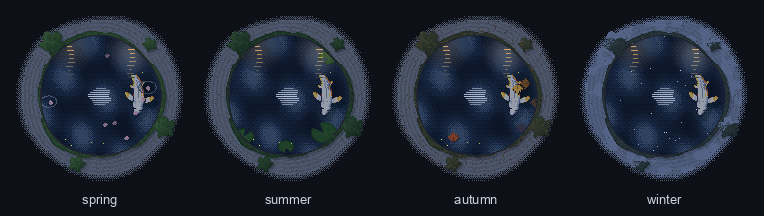
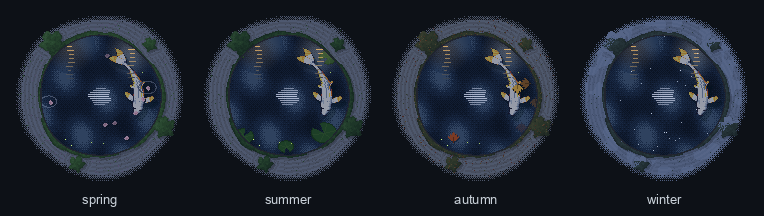
Night: lamp glow lights the water under the koi instead of covering it
The glow was being lifted above the koi with the rest of the surface,
so on a lamplit night the fish disappeared inside the glow. It now
counts as part of the water; the reflection streaks still sit on top.

diff --git a/docs/explorer.html b/docs/explorer.html
@@ -232,7 +232,10 @@ SC.night = (t, T) => {
   const ph = TAU * t / N;
   if (season === "summer") for (const [x, y, r, ang] of [[14,18,11,0.6],[104,26,9,2.4],[100,100,13,4.0],[20,104,10,5.2],[62,114,8,1.4]]) { const bob = Math.sin(TAU*t/N + x) * 0.8; lily(x, y + bob, r, ang, hx("#1d3f27"), hx("#142f1c")); }
   if (wet) { ctx.globalAlpha = 0.3; drawMoon(t, ph); ctx.globalAlpha = 1; } else drawMoon(t, ph); // on a rainy night the moon shows faintly through cloud
-  lights.forEach((s, n) => { if (!s.water) return; const sx0 = s.x - G.off, sy0 = s.y - G.off, flick = 0.85 + 0.15*Math.sin(ph*6 + n*1.7); glow(sx0, sy0 + 10, 26, s.col, 0.22*flick); for (let k = 0; k < 9; k++) { const y = sy0 + 8 + k*4, w = 1 + Math.round(2*Math.abs(Math.sin(ph*2 + k + n))), x = sx0 + Math.round(1.5*Math.sin(ph*3 + k*0.9 + n)); line(x - w, y, x + w, y, s.col, Math.max(0, 0.75 - k*0.08)); } });
+  // the lamps' glow lights the water itself, so it counts as water: the koi swims through it, not under it
+  lights.forEach((s, n) => { if (s.water) glow(s.x - G.off, s.y - G.off + 10, 26, s.col, 0.22*(0.85 + 0.15*Math.sin(ph*6 + n*1.7))); });
+  basectx.drawImage(sctx.canvas, 0, 0);
+  lights.forEach((s, n) => { if (!s.water) return; const sx0 = s.x - G.off, sy0 = s.y - G.off; for (let k = 0; k < 9; k++) { const y = sy0 + 8 + k*4, w = 1 + Math.round(2*Math.abs(Math.sin(ph*2 + k + n))), x = sx0 + Math.round(1.5*Math.sin(ph*3 + k*0.9 + n)); line(x - w, y, x + w, y, s.col, Math.max(0, 0.75 - k*0.08)); } });
   if (wet) { const r = rng(13); for (let i = 0; i < 22; i++) { const sx = 4 + r()*120, sy = 4 + r()*120, off = Math.floor(r()*30); const k = ((t + off) % 30) / 30; if (k < 0.93) ring(sx, sy, 0.5 + k*10, [150,175,215], 0.75*(1-k)); if ((t+off)%30 >= 28) P(sx, sy - (29 - (t+off)%30)*3, [190,205,235], 0.8); } }
   if (season === "winter") { const r = rng(11); for (let i = 0; i < 30; i++) { const x0 = r()*L, y0 = r()*L; const x = (x0 + 3*Math.sin(TAU*t/N*2 + i)) % L, y = (y0 + L*t/N) % (L + 8) - 4; P(x, y, [220,230,250], i % 3 ? 0.65 : 0.85); } }
   if (season === "autumn") fallers(T, 6, 5, LEAVES, ["#7a3a24","#8a5a2a","#9a7a3a"].map(c => { const a = hx(c); return {a, b: a.map(v => v * 0.65 | 0)}; }), [150,170,200], 20, state.drops === "random");

diff --git a/scenes/pond.html b/scenes/pond.html
@@ -232,7 +232,10 @@ SC.night = (t, T) => {
   const ph = TAU * t / N;
   if (season === "summer") for (const [x, y, r, ang] of [[14,18,11,0.6],[104,26,9,2.4],[100,100,13,4.0],[20,104,10,5.2],[62,114,8,1.4]]) { const bob = Math.sin(TAU*t/N + x) * 0.8; lily(x, y + bob, r, ang, hx("#1d3f27"), hx("#142f1c")); }
   if (wet) { ctx.globalAlpha = 0.3; drawMoon(t, ph); ctx.globalAlpha = 1; } else drawMoon(t, ph); // on a rainy night the moon shows faintly through cloud
-  lights.forEach((s, n) => { if (!s.water) return; const sx0 = s.x - G.off, sy0 = s.y - G.off, flick = 0.85 + 0.15*Math.sin(ph*6 + n*1.7); glow(sx0, sy0 + 10, 26, s.col, 0.22*flick); for (let k = 0; k < 9; k++) { const y = sy0 + 8 + k*4, w = 1 + Math.round(2*Math.abs(Math.sin(ph*2 + k + n))), x = sx0 + Math.round(1.5*Math.sin(ph*3 + k*0.9 + n)); line(x - w, y, x + w, y, s.col, Math.max(0, 0.75 - k*0.08)); } });
+  // the lamps' glow lights the water itself, so it counts as water: the koi swims through it, not under it
+  lights.forEach((s, n) => { if (s.water) glow(s.x - G.off, s.y - G.off + 10, 26, s.col, 0.22*(0.85 + 0.15*Math.sin(ph*6 + n*1.7))); });
+  basectx.drawImage(sctx.canvas, 0, 0);
+  lights.forEach((s, n) => { if (!s.water) return; const sx0 = s.x - G.off, sy0 = s.y - G.off; for (let k = 0; k < 9; k++) { const y = sy0 + 8 + k*4, w = 1 + Math.round(2*Math.abs(Math.sin(ph*2 + k + n))), x = sx0 + Math.round(1.5*Math.sin(ph*3 + k*0.9 + n)); line(x - w, y, x + w, y, s.col, Math.max(0, 0.75 - k*0.08)); } });
   if (wet) { const r = rng(13); for (let i = 0; i < 22; i++) { const sx = 4 + r()*120, sy = 4 + r()*120, off = Math.floor(r()*30); const k = ((t + off) % 30) / 30; if (k < 0.93) ring(sx, sy, 0.5 + k*10, [150,175,215], 0.75*(1-k)); if ((t+off)%30 >= 28) P(sx, sy - (29 - (t+off)%30)*3, [190,205,235], 0.8); } }
   if (season === "winter") { const r = rng(11); for (let i = 0; i < 30; i++) { const x0 = r()*L, y0 = r()*L; const x = (x0 + 3*Math.sin(TAU*t/N*2 + i)) % L, y = (y0 + L*t/N) % (L + 8) - 4; P(x, y, [220,230,250], i % 3 ? 0.65 : 0.85); } }
   if (season === "autumn") fallers(T, 6, 5, LEAVES, ["#7a3a24","#8a5a2a","#9a7a3a"].map(c => { const a = hx(c); return {a, b: a.map(v => v * 0.65 | 0)}; }), [150,170,200], 20, state.drops === "random");
